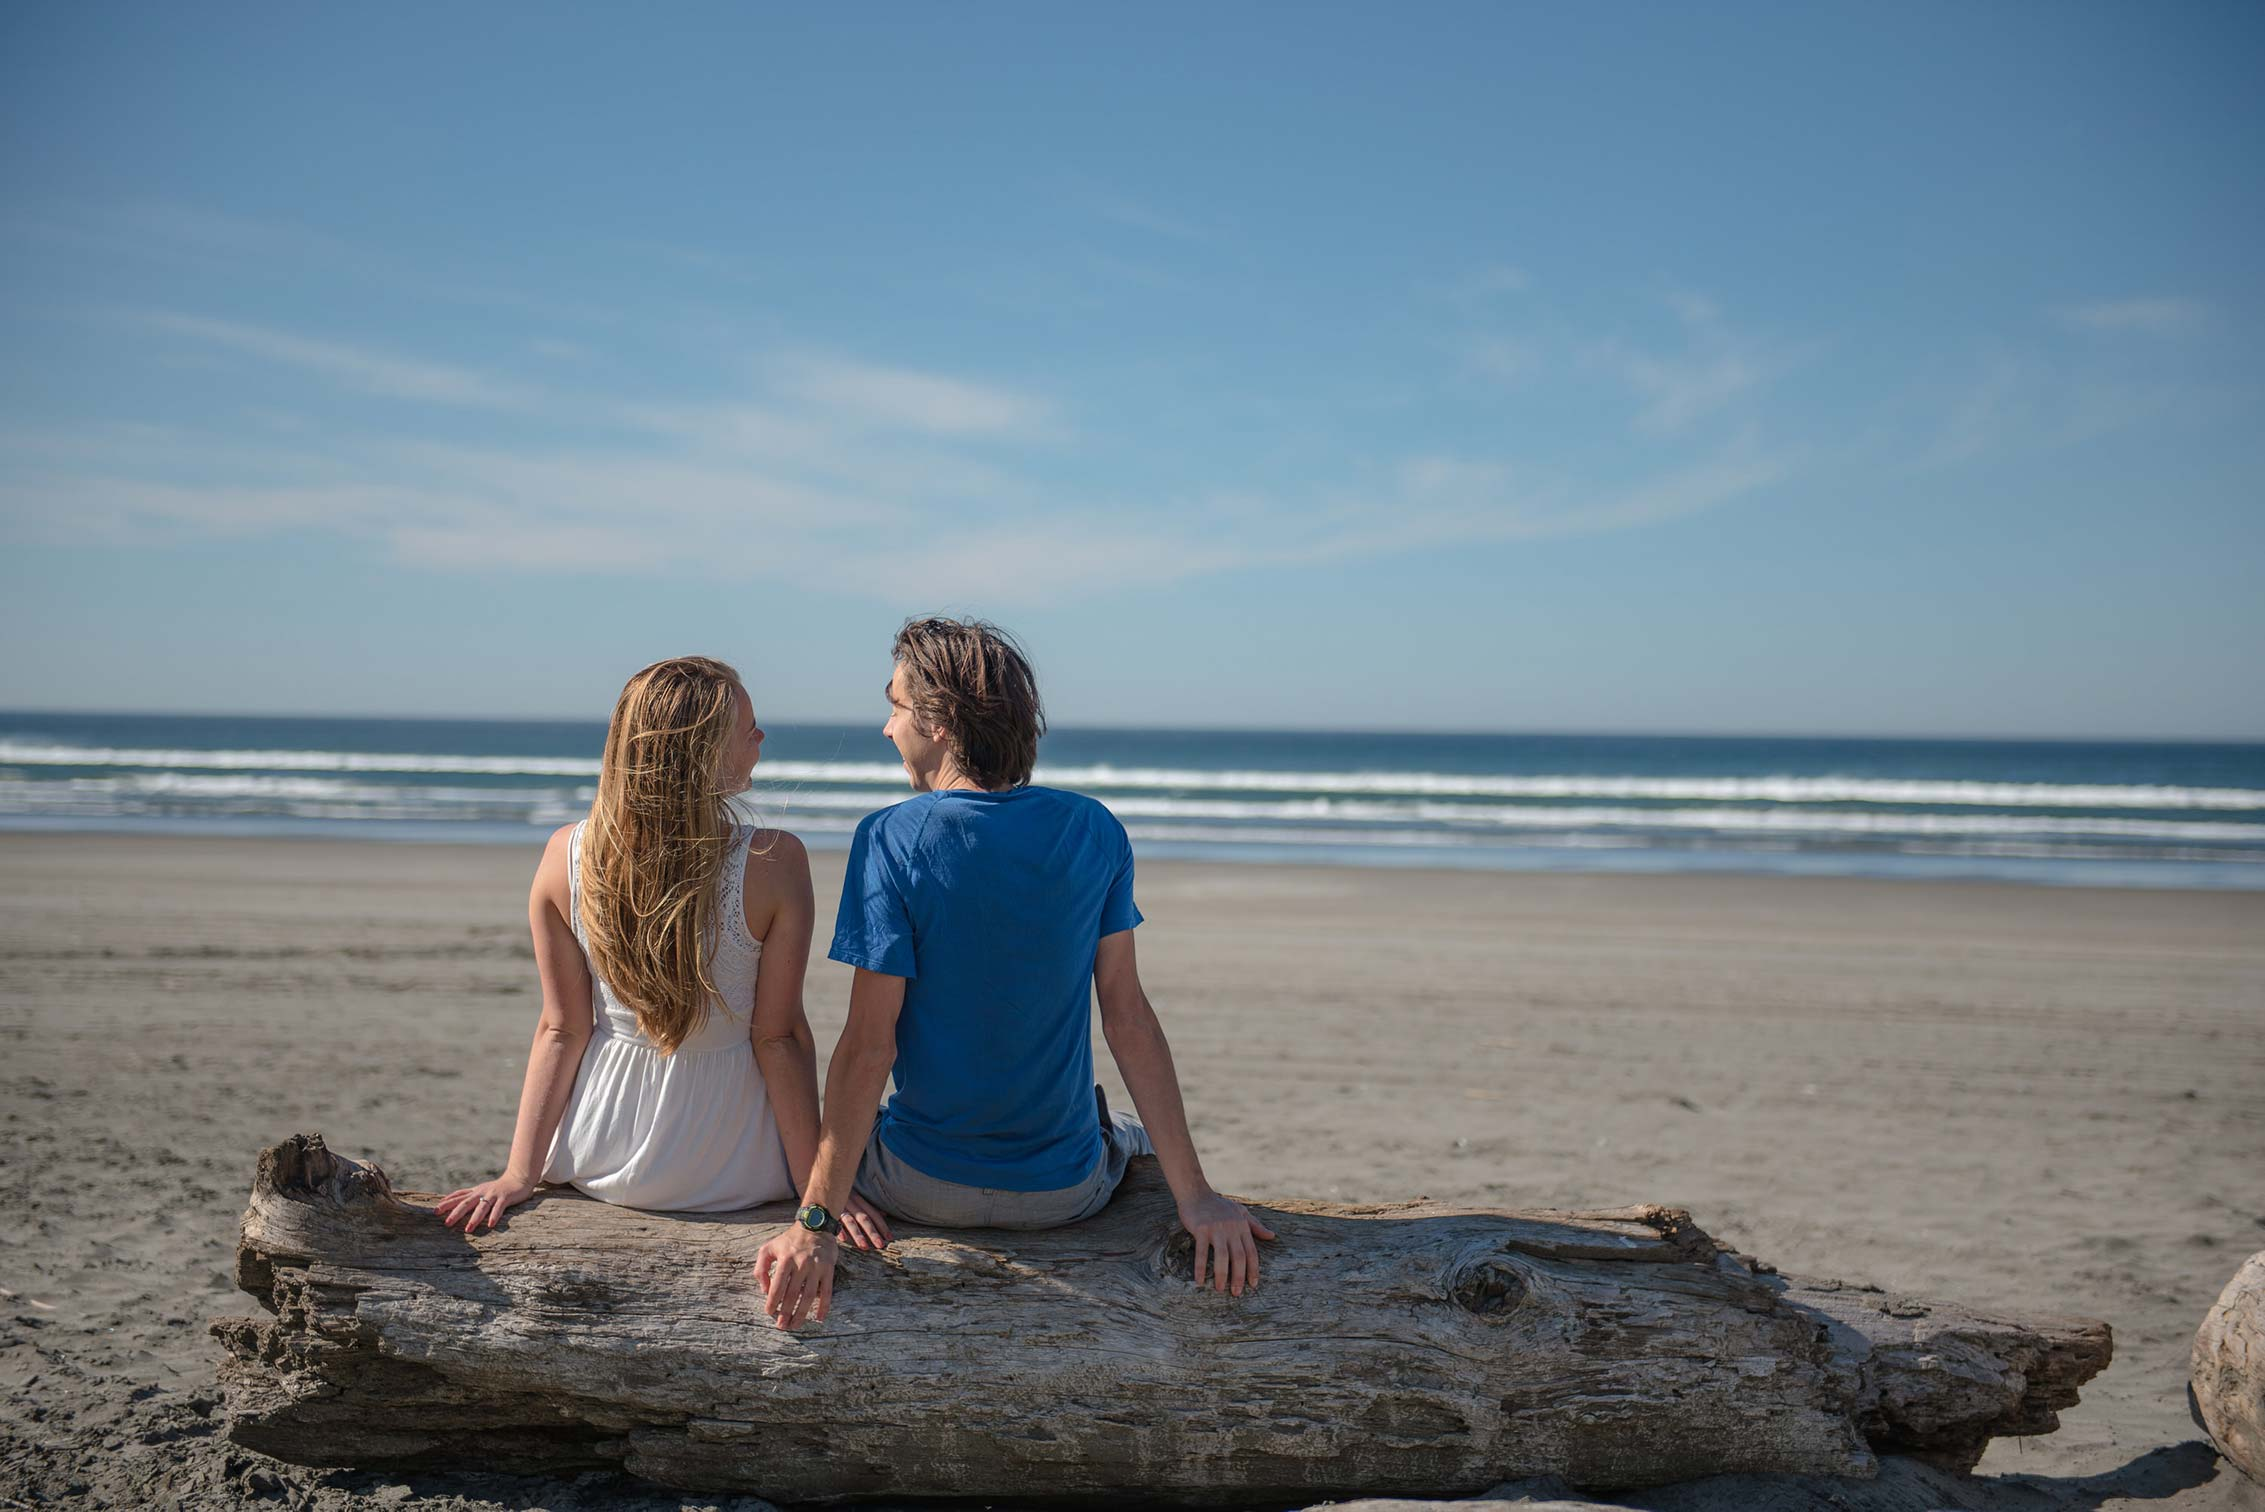
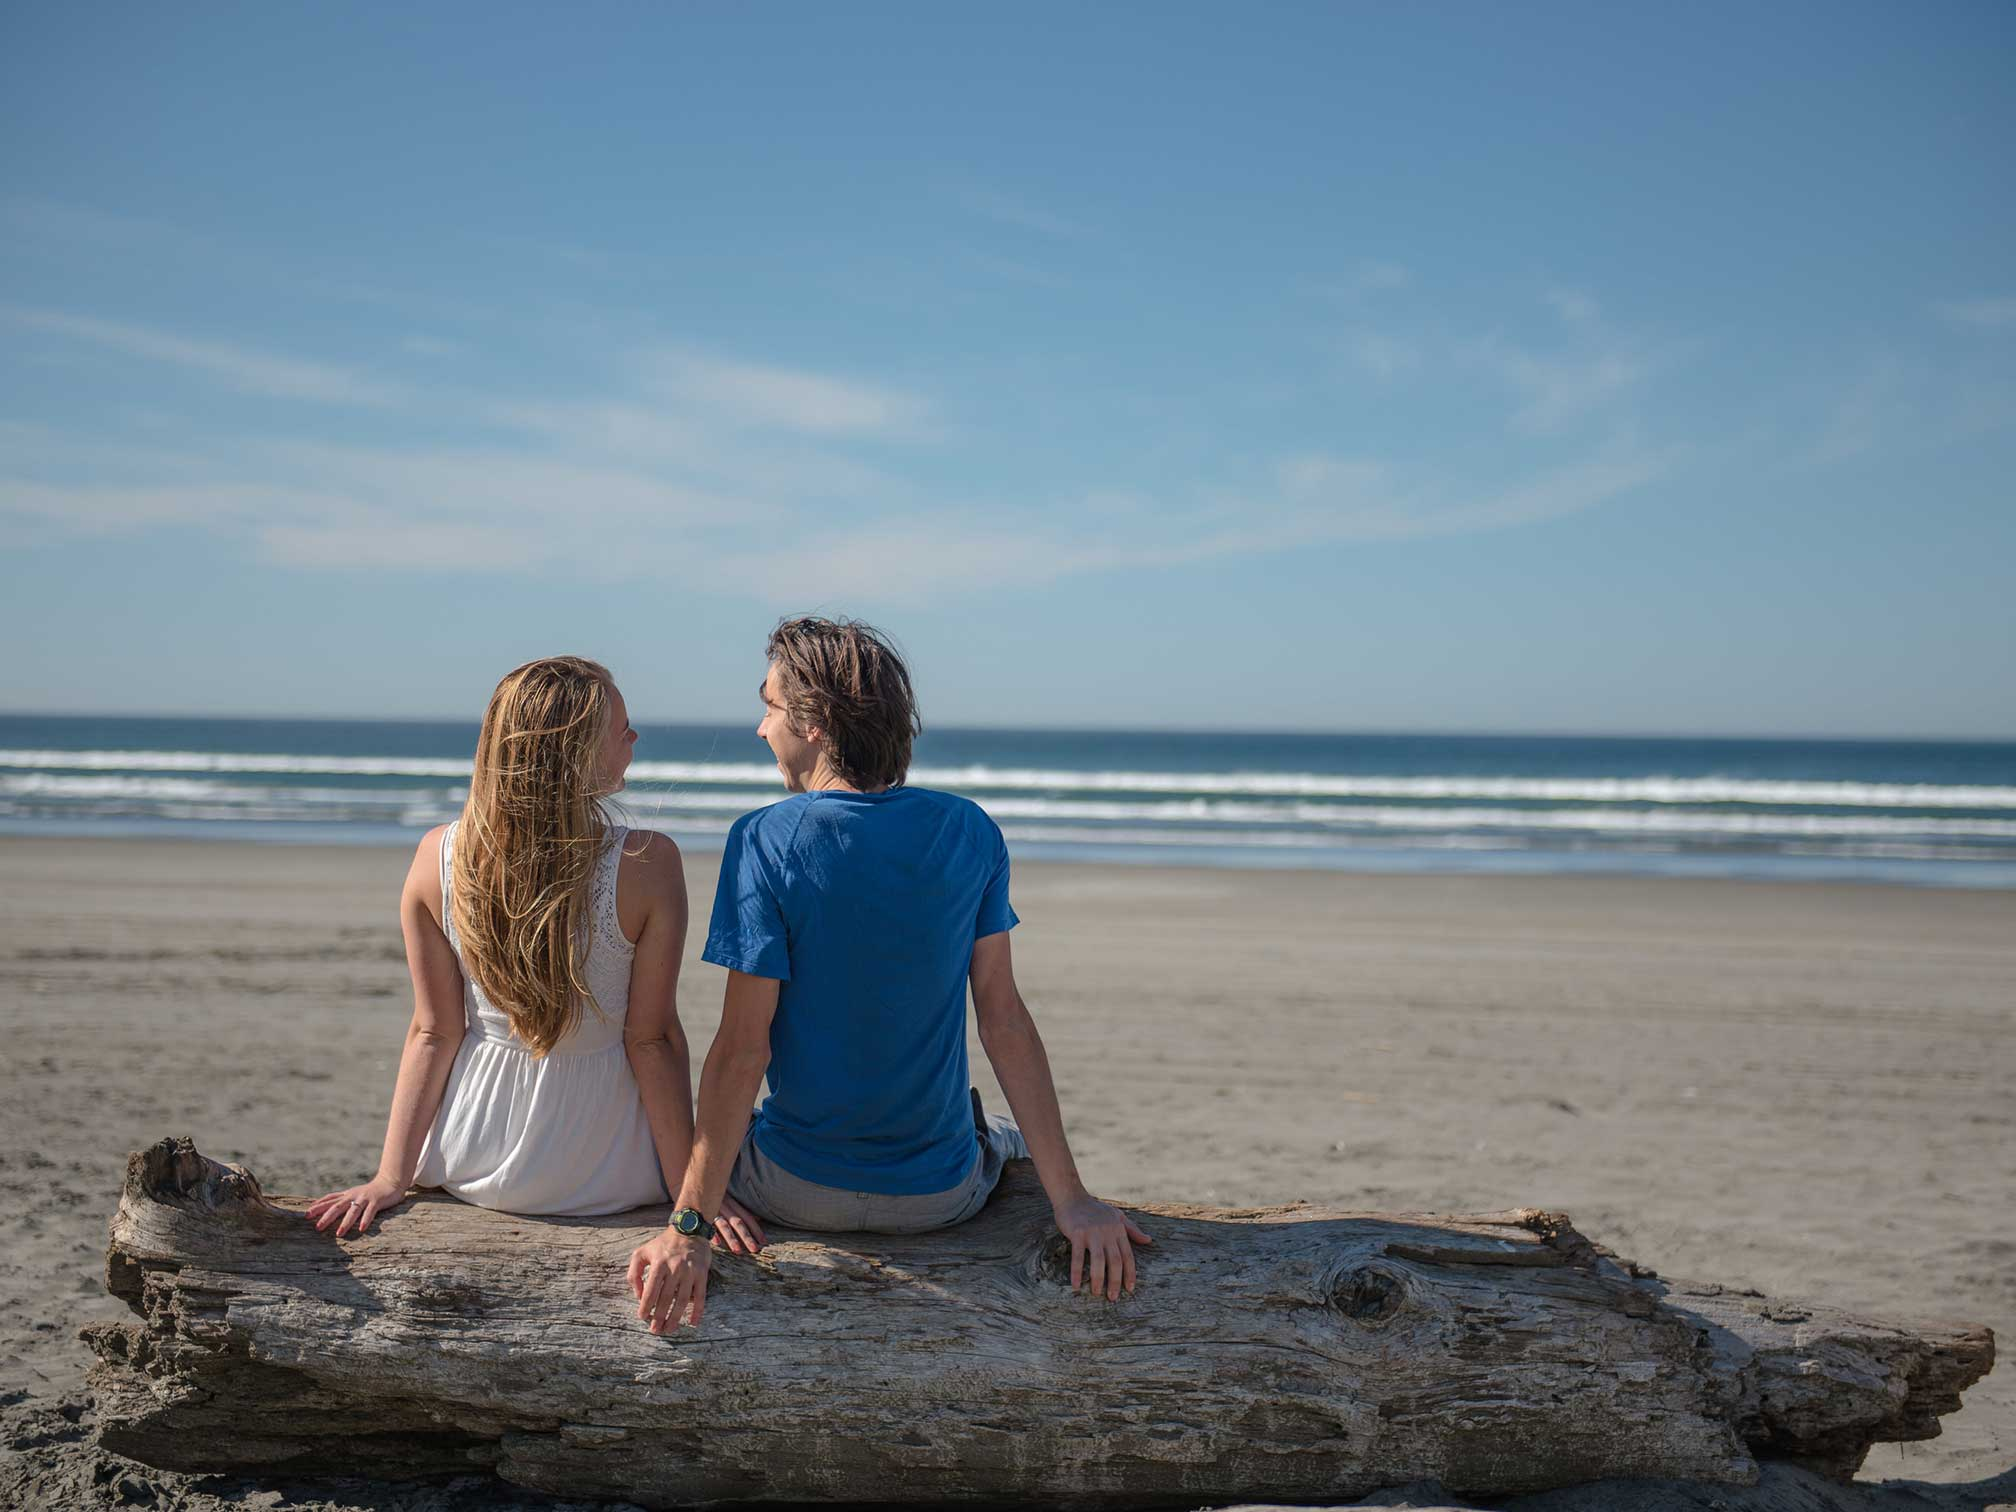
refactoring and updating photo res

diff --git a/css/bg.css b/css/bg.css
@@ -32,13 +32,8 @@ background-size: 100% !important;
 
 /* background settings for section */
 #section-hero-1 {background:url(../images/background/6.jpg);}
-#section-hero-2 {background:url(../images_02/background/3.jpg);}
-#section-hero-3 {background:url(../images_02/background/4.jpg);}
 #section-quote {background:url(../images/background/4.jpg);}
-#section-countdown {background:url(../images/background/6.jpg);}
-#section-guestbook {background:url(../images/background/5.jpg);}
-#section-bride {background:url(../images/background/2.jpg) top;}
-#section-groom {background:url(../images/background/1.jpg) top;}
+#section-countdown {background:url(../images/background/countdown.jpg);}
 #section-event-1 {background:url(../images/background/7.jpg);}
 
 /* 02 */
